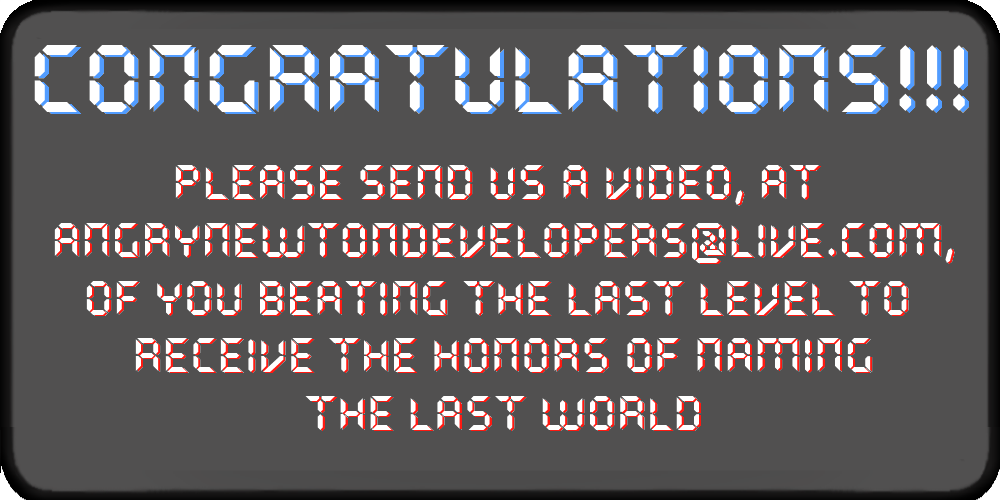
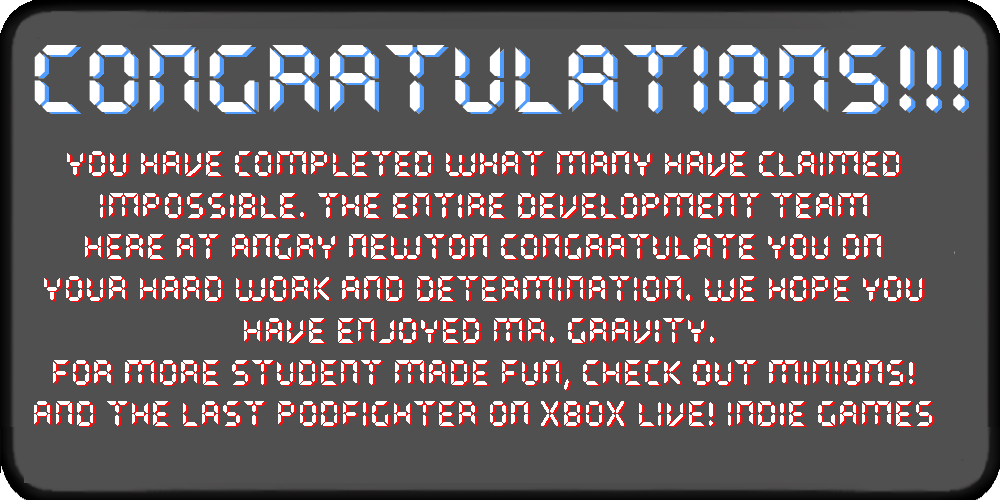
Add changes to game to remove contest

Changed region(s): [[0.031, 0.3, 0.961, 0.87]]

diff --git a/GravityShiftXbox360/GravityShiftXbox360/GravityShiftXbox360/WorldSelect.cs b/GravityShiftXbox360/GravityShiftXbox360/GravityShiftXbox360/WorldSelect.cs
@@ -69,7 +69,7 @@ namespace GravityShift
         const int LOADING = 2;
         int mLoading = 0;
 
-        string[] mWorlds = { "The Ropes", "Rail Shark", "Free Motion", "Two-Sides", "Old School", "Putting it Together", "Insanity", "Good Luck", "UNNAMED - CONTEST" };
+        string[] mWorlds = { "The Ropes", "Rail Shark", "Free Motion", "Two-Sides", "Old School", "Putting it Together", "Insanity", "Good Luck", "Jamba Geoff Jam" };
         int mLongestName;
 
         int mStarCount = 0;
@@ -976,16 +976,9 @@ namespace GravityShift
                         }
                         else
                         {
-                            worldText = mFontBig.MeasureString("World Locked: You need " + (480 - mStarCount) + " more Stars to Unlock\n");
-                                                                //"First to record beating this world will name this world");
-                            spriteBatch.DrawString(mFontBig, "World Locked: You need " + (480 - mStarCount) + " more Stars to Unlock\n",
-                                                                //"First to record beating this world will name this world",
+                            worldText = mFontBig.MeasureString("World Locked: You need " + (480 - mStarCount) + " more Stars to Unlock");
+                            spriteBatch.DrawString(mFontBig, "World Locked: You need " + (480 - mStarCount) + " more Stars to Unlock",
                                 new Vector2(background.Center.X - worldText.X / 2, background.Center.Y - worldText.Y / 2), Color.White);
-                            worldText = mFontBig.MeasureString("Contest!!! First to beat this world gets to name it");
-                            spriteBatch.DrawString(mFontBig, "Contest!!! First to beat this world gets to name it",
-                                new Vector2(background.Center.X - worldText.X / 2, background.Center.Y), Color.White);
-                            spriteBatch.DrawString(mFontBig, "Contest!!! First to beat this world gets to name it",
-                                new Vector2(background.Center.X - worldText.X / 2 + 2, background.Center.Y + 2), Color.CornflowerBlue);
                         }
                     }
 
@@ -1007,10 +1000,10 @@ namespace GravityShift
 
                 if (i == 48)
                 {
-                    size = mFontBig.MeasureString("CONTEST!!! Beat this world, Record it, and\nsend it to us to get a chance to name it!!");
-                    spriteBatch.DrawString(mFontBig, "CONTEST!!! Beat this world, Record it, and\nsend it to us get a chance to to name it!!",
+                    size = mFontBig.MeasureString("Congrats Travis, for winning the Naming Contest!!");
+                    spriteBatch.DrawString(mFontBig, "Congrats Travis, for winning the Naming Contest!!",
                         new Vector2(rect.Right + size.X/32, rect.Center.Y - 2*size.Y / 3), Color.White);
-                    spriteBatch.DrawString(mFontBig, "CONTEST!!! Beat this world, Record it, and\nsend it to us get a chance to to name it!!",
+                    spriteBatch.DrawString(mFontBig, "Congrats Travis, for winning the Naming Contest!!",
                        new Vector2(rect.Right + size.X / 32 + 2, rect.Center.Y - 2 * size.Y / 3 + 2), Color.CornflowerBlue);
                 }
 

diff --git a/WindowsGame1/WorldSelect.cs b/WindowsGame1/WorldSelect.cs
@@ -69,7 +69,7 @@ namespace GravityShift
         const int LOADING = 2;
         int mLoading = 0;
 
-        string[] mWorlds = { "The Ropes", "Rail Shark", "Free Motion", "Two-Sides", "Old School", "Putting it Together", "Insanity", "Good Luck", "UNNAMED - CONTEST" };
+        string[] mWorlds = { "The Ropes", "Rail Shark", "Free Motion", "Two-Sides", "Old School", "Putting it Together", "Insanity", "Good Luck", "Jamba Geoff Jam" };
         int mLongestName;
 
         int mStarCount = 0;
@@ -976,16 +976,9 @@ namespace GravityShift
                         }
                         else
                         {
-                            worldText = mFontBig.MeasureString("World Locked: You need " + (480 - mStarCount) + " more Stars to Unlock\n");
-                                                                //"First to record beating this world will name this world");
-                            spriteBatch.DrawString(mFontBig, "World Locked: You need " + (480 - mStarCount) + " more Stars to Unlock\n",
-                                                                //"First to record beating this world will name this world",
+                            worldText = mFontBig.MeasureString("World Locked: You need " + (480 - mStarCount) + " more Stars to Unlock");
+                            spriteBatch.DrawString(mFontBig, "World Locked: You need " + (480 - mStarCount) + " more Stars to Unlock",
                                 new Vector2(background.Center.X - worldText.X / 2, background.Center.Y - worldText.Y / 2), Color.White);
-                            worldText = mFontBig.MeasureString("Contest!!! First to beat this world gets to name it");
-                            spriteBatch.DrawString(mFontBig, "Contest!!! First to beat this world gets to name it",
-                                new Vector2(background.Center.X - worldText.X / 2, background.Center.Y), Color.White);
-                            spriteBatch.DrawString(mFontBig, "Contest!!! First to beat this world gets to name it",
-                                new Vector2(background.Center.X - worldText.X / 2 + 2, background.Center.Y + 2), Color.CornflowerBlue);
                         }
                     }
 
@@ -1007,10 +1000,10 @@ namespace GravityShift
 
                 if (i == 48)
                 {
-                    size = mFontBig.MeasureString("CONTEST!!! Beat this world, Record it, and\nsend it to us to get a chance to name it!!");
-                    spriteBatch.DrawString(mFontBig, "CONTEST!!! Beat this world, Record it, and\nsend it to us get a chance to to name it!!",
+                    size = mFontBig.MeasureString("Congrats Travis, for winning the Naming Contest!!");
+                    spriteBatch.DrawString(mFontBig, "Congrats Travis, for winning the Naming Contest!!",
                         new Vector2(rect.Right + size.X/32, rect.Center.Y - 2*size.Y / 3), Color.White);
-                    spriteBatch.DrawString(mFontBig, "CONTEST!!! Beat this world, Record it, and\nsend it to us get a chance to to name it!!",
+                    spriteBatch.DrawString(mFontBig, "Congrats Travis, for winning the Naming Contest!!",
                        new Vector2(rect.Right + size.X / 32 + 2, rect.Center.Y - 2 * size.Y / 3 + 2), Color.CornflowerBlue);
                 }
 
